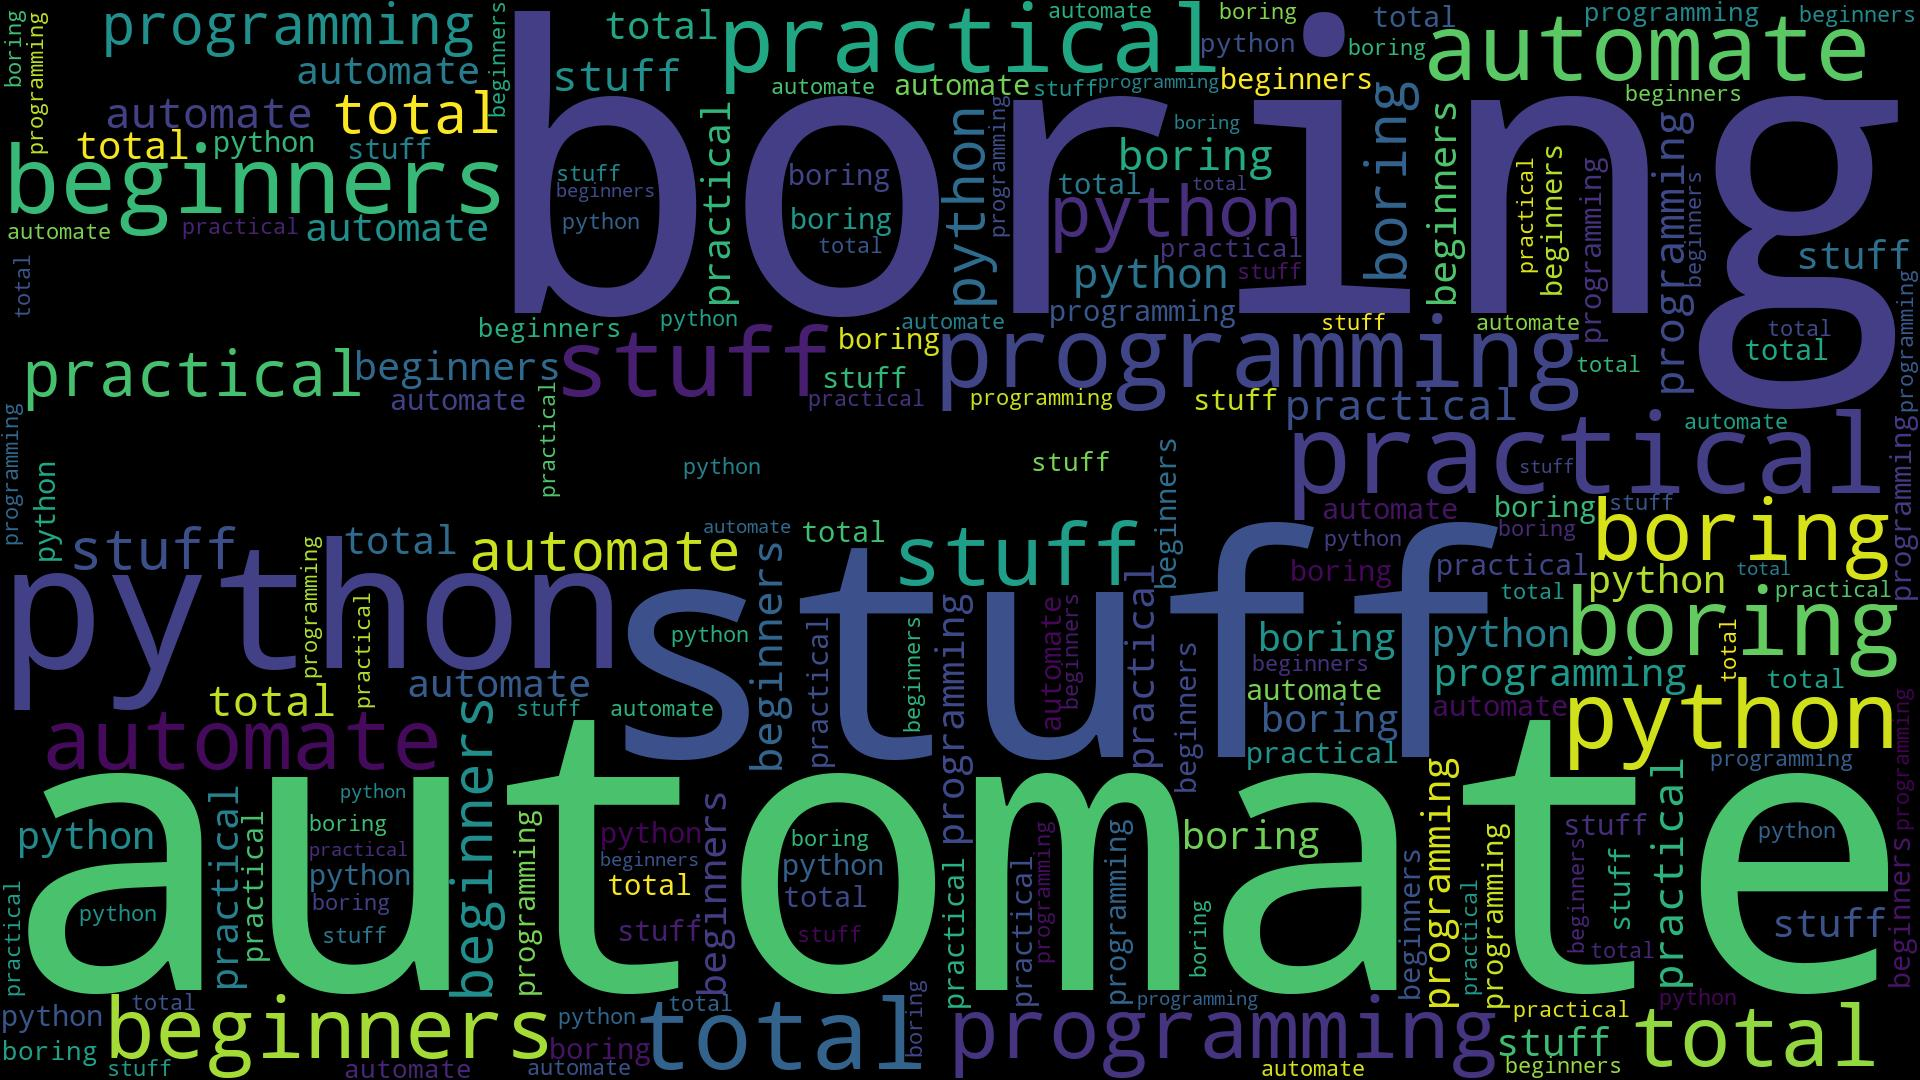
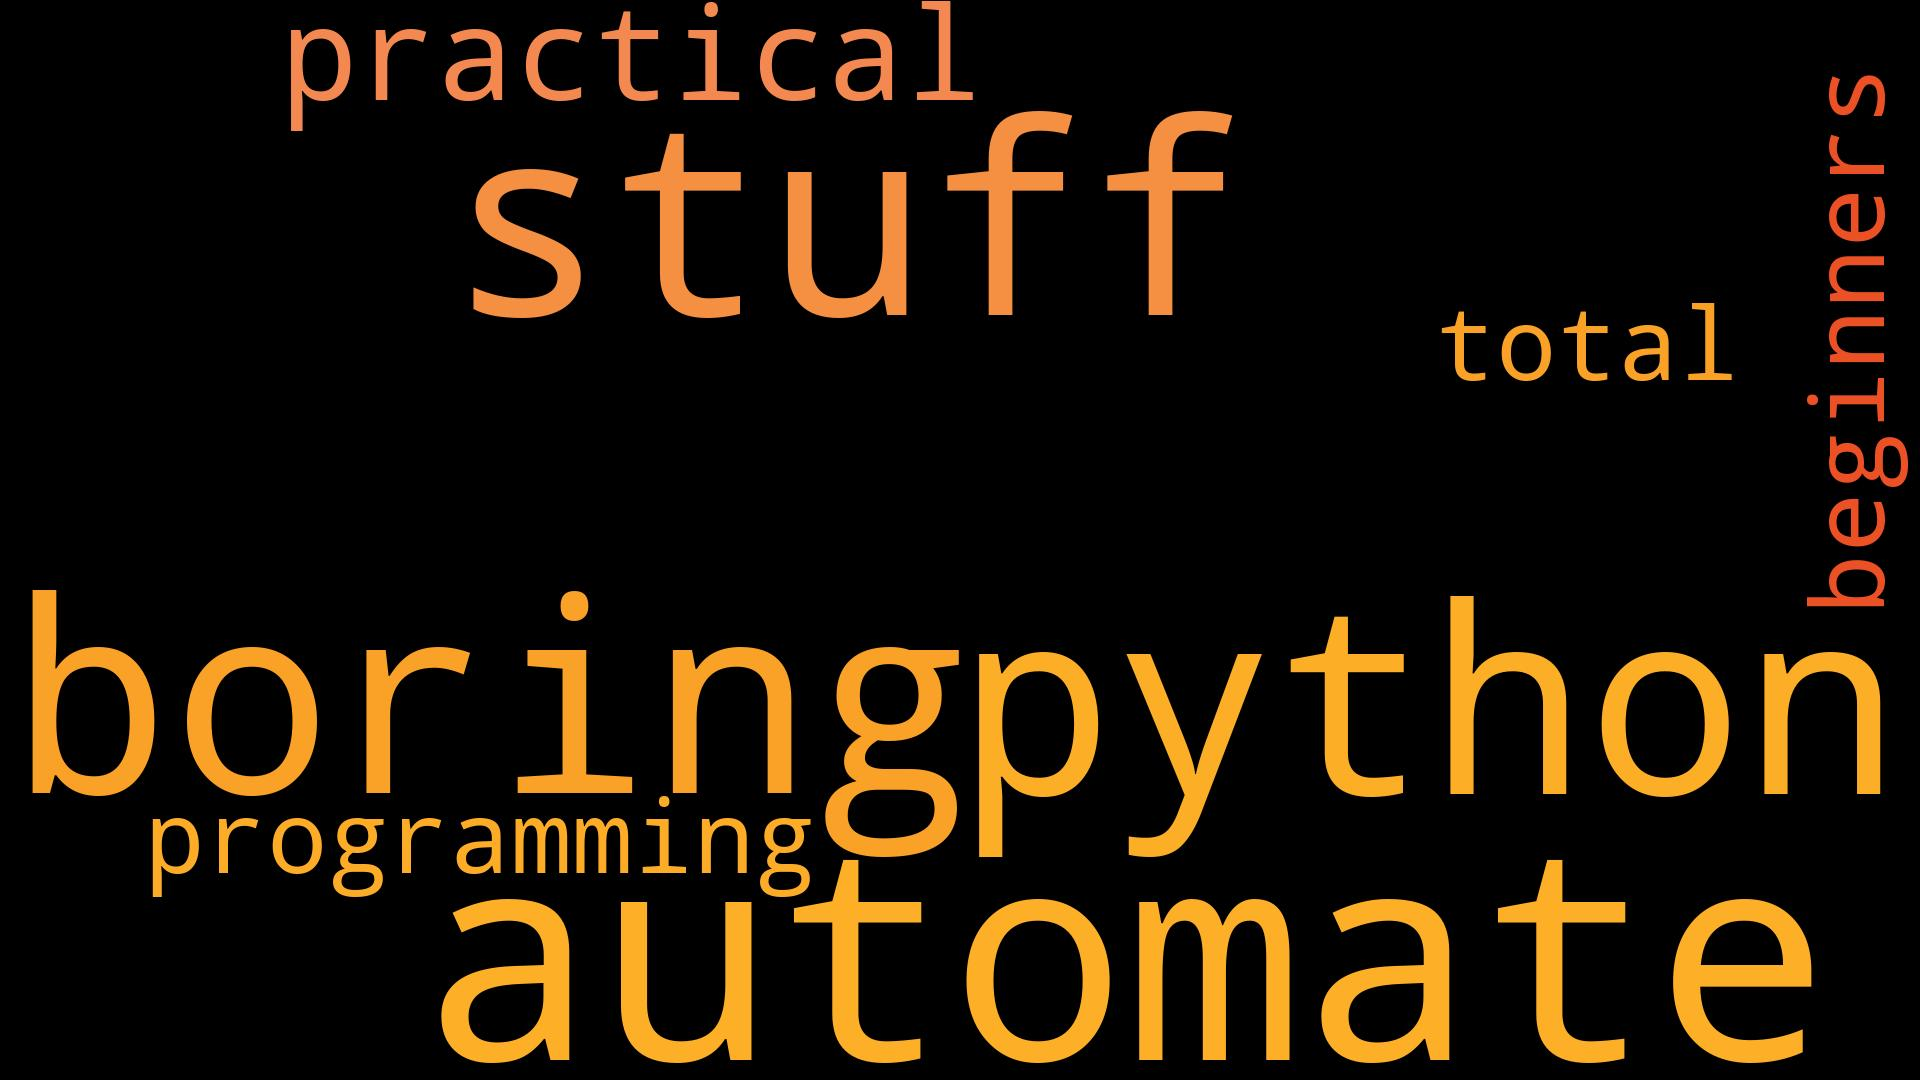
create_index_pr

diff --git a/handlers.py b/handlers.py
@@ -1,67 +1,70 @@
 from aiogram import F, Router
 from aiogram.types import CallbackQuery, Message
 from keyboards import information_keyboard
-from test_data import *
+from test_data import books_data
 from motor.motor_asyncio import AsyncIOMotorClient
+
+from aiogram.fsm.storage.memory import MemoryStorage
+from aiogram.fsm.context import FSMContext
+from aiogram.fsm.state import State, StatesGroup
+from aiogram.types import FSInputFile
+from word_cloud import word_cloud
+
+
 client = AsyncIOMotorClient('mongodb://localhost:27017')
 collection = client.MongoDB.MongoCollection
 router = Router()
 user_router = Router()
-from aiogram.fsm.storage.memory import MemoryStorage
-from aiogram.fsm.context import FSMContext
-from aiogram.fsm.state import State, StatesGroup
-from word_cloud import word_cloud
 storage = MemoryStorage()
+
+
 class Data(StatesGroup):
     """Машина состояний для реализации сценариев диалогов с пользователем."""
-
     information = State()
-   
+
 
 @user_router.callback_query(F.data == "information",)
 async def get_information(callback: CallbackQuery):
-    """Получение информации"""
+    """Получение информации."""
     await callback.message.answer(
-        text="Выбирайте тему для получения запроса", reply_markup=information_keyboard()
+        text="Выбирайте тему для получения запроса",
+        reply_markup=information_keyboard()
     )
 
-from aiogram import types
-from aiogram.types import FSInputFile
 
 @user_router.callback_query(F.data == "1",)
 async def get_one_information(callback: CallbackQuery, state: FSMContext):
-    """Вывод запрашиваемой информации """
+    """Вывод запрашиваемой информации."""
     await state.set_state(Data.information)
     await callback.message.answer("Введите, что вы хотите найти")
-  
+
 
 @user_router.message(Data.information)
 async def process_add_task_name(message: Message, state: FSMContext, bot):
     """Вывод запрашиваемой информации."""
-    z = await run(message.text)
+    z = await search_information(message.text)
     s = " ".join(z)
     file = await word_cloud(s)
     await bot.send_photo(message.chat.id, FSInputFile(file))
     await message.answer(
-        text=f"{z}", 
+        text=f"{z}",
     )
     await state.clear()
 
       
-async def run(name):
+async def search_information(name):
+    """Функция поиска информации в БД"""
     a = []
-    collection.create_index( { 'name': "text"} )
-    x = collection.find( { "$text": { "$search": f"{name}" } })
+    collection.create_index({'name': "text"})
+    x = collection.find({"$text": {"$search": f"{name}"}})
     async for document in x:
         a.append(document['name'])
     return (*a,)
-  
-  
+
+
 @user_router.callback_query(F.data == "Inserting information",)
 async def inserting_information(callback: CallbackQuery):
-    """Получение информации"""
-    print(500)
+    """Функция добавления информации в БД."""
     collection.insert_many(books_data)
-    print(464646)
     await callback.message.answer(
         text="Информация добавлена в БД")

diff --git a/word_cloud.py b/word_cloud.py
@@ -1,20 +1,24 @@
-import numpy as np
-import matplotlib.pyplot as plt
-# загружаем класс WordCloud из библиотеки wordcloud
-from wordcloud import WordCloud
-from wordcloud import STOPWORDS
 import string 
+import numpy as np
+from wordcloud import WordCloud, ImageColorGenerator
 from PIL import Image
+from collections import Counter
+
+
 async def word_cloud(text):
+    """Функция построения облаков слов"""
     text = text.lower()
     table = str.maketrans("", "", string.punctuation)
     text = text.translate(table)
+    word_counts = Counter(text.split(" ")).keys()
+    d = " ".join(word_counts)
     cake_mask = np.array(Image.open('Plan.png'))
-    wc = WordCloud(stopwords = STOPWORDS, repeat=True, 
-                   mask=cake_mask,
-                   width = cake_mask.shape[1],
-                   height = cake_mask.shape[1]).generate(text)
+    wc = WordCloud(mask=cake_mask,
+                   max_words=10).generate(d)
+    image_colors = ImageColorGenerator(cake_mask)
+    wc.recolor(color_func=image_colors)
     file = "60874022.jpg"
     wc.to_file("60874022.jpg")
-    return file 
+    return file
+
  
